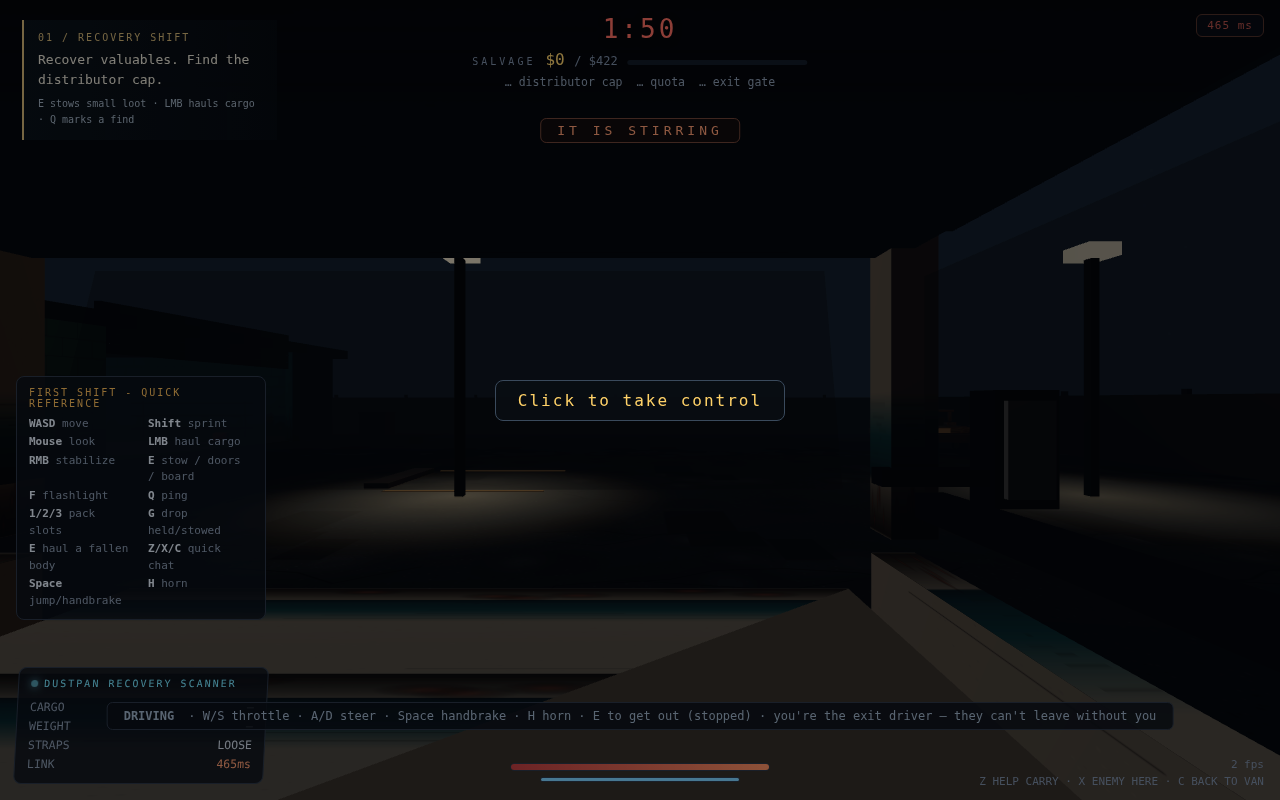
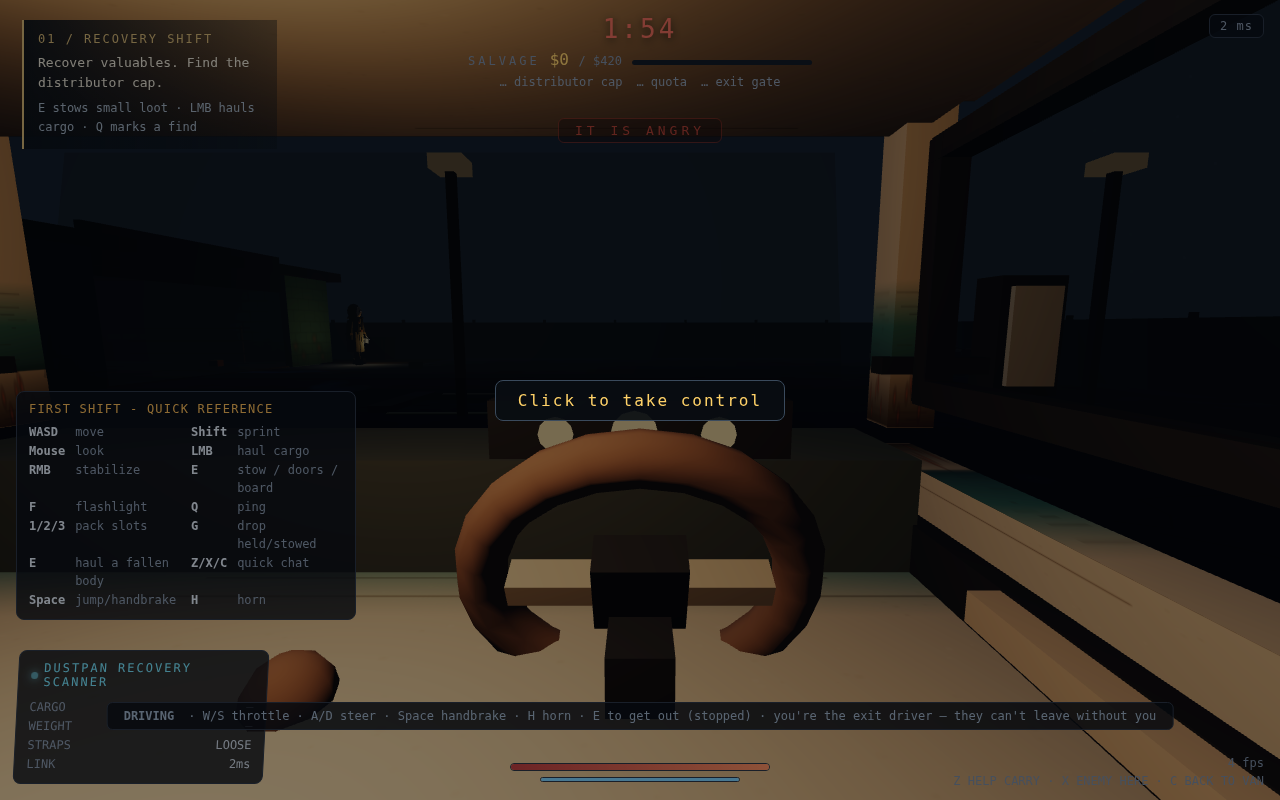
Fix menu reach and legibility: 12px text floor, laptop-height title, scrollable pause, one phone screen
- No text a player must read is under 12px (title sheet had 22 runs below
  it, the HUD 49, the briefing/pause/results sheets their form labels)
- Title sheet compacts below 760px tall so it fits 1280x630 and 1280x720;
  at 720px the Controls hint opens inside the screen
- Pause overlay scrolls; the pause sheet is 673px tall and was cut on
  short screens
- Briefing sheet sits above 'Click to take control', which painted over
  its site conditions
- Touch-only devices get one honest screen instead of the sign-in form
  overflowing under a notice
- Headgear is a row of drawn marks instead of a native select; swatches
  32px, buttons and inputs 44px; opaque sheet with an amber primary
- Lobby actions in one row; quick reference as key + label columns

diff --git a/apps/web/src/styles.css b/apps/web/src/styles.css
@@ -1436,19 +1436,6 @@ input:focus-visible {
   color: #8a99ac;
   line-height: 1.6;
 }
-.mobile-notice {
-  position: absolute;
-  left: 12px;
-  bottom: 12px;
-  right: 12px;
-  padding: 10px 14px;
-  background: rgba(30, 12, 8, 0.92);
-  border: 1px solid #6e4030;
-  border-radius: 8px;
-  color: #ffb39c;
-  font-size: 12.5px;
-  z-index: 40;
-}
 .pause-note {
   display: none;
 }
@@ -1961,4 +1948,150 @@ input:focus-visible {
     padding-left: 18px;
     padding-right: 18px;
   }
+}
+
+/* ---------- reach and legibility ----------
+   Nothing a player must read sits under 12px, every control is a real
+   target, and no sheet is taller than the screen it opens on. This block
+   comes last and overrides the sections above. */
+.field > span { font-size: 12px; letter-spacing: 1.4px; }
+.host-tag,
+.dc-tag,
+.ready,
+.roster .nick small { font-size: 12px; }
+
+/* title: one opaque sheet, the one action in amber */
+.title-panel { background: #0c151c; }
+.title-panel .btn { min-height: 44px; }
+.title-panel input { min-height: 44px; }
+.title-panel .btn.primary {
+  background: var(--amber);
+  border-color: #f0a83a;
+  color: #1a1206;
+  font-weight: 700;
+  box-shadow: 3px 4px 0 #4a3410;
+}
+.title-panel .btn.primary:hover:not(:disabled) {
+  background: #ffd27e;
+  transform: none;
+  box-shadow: 3px 4px 0 #4a3410;
+}
+.title-panel .btn.primary:active:not(:disabled) {
+  transform: translate(2px, 2px);
+  box-shadow: 1px 2px 0 #4a3410;
+}
+.title-controls,
+.title-controls .controls-hint { font-size: 12.5px; }
+.title-panel .form-head { font-size: 12px; }
+
+.swatch { width: 32px; height: 32px; }
+
+/* headgear: drawn marks instead of the platform's select menu */
+.headgear { display: flex; flex-wrap: wrap; gap: 6px; }
+.hat {
+  display: grid;
+  place-items: center;
+  width: 40px;
+  height: 40px;
+  border: 1px solid #384b55;
+  border-radius: 4px;
+  background: #101b23;
+  color: #9fb0bd;
+  cursor: pointer;
+  transition: border-color 0.14s ease, color 0.14s ease, background-color 0.14s ease;
+}
+.hat:hover { border-color: #d7b77b; color: #e6e0cf; }
+.hat.sel { border-color: var(--amber); background: #1d1a12; color: var(--amber); }
+.hat:focus-visible { outline: none; box-shadow: var(--focus); }
+
+/* 13-inch laptops (1280x630 / 1280x720): the whole sheet, Controls line
+   included, ends inside the first screen */
+@media (max-height: 760px) {
+  .title-panel { padding: 22px 28px 18px; }
+  .title-panel .game-title { font-size: 48px; margin-bottom: 12px; }
+  .title-panel .tagline { font-size: 13px; line-height: 1.5; margin-bottom: 14px; }
+  .title-panel .form-head { margin-bottom: 8px; }
+  .title-panel .field { margin: 10px 0; }
+  .title-panel .title-actions { padding-top: 14px; }
+  .title-panel .title-controls { margin-top: 10px; }
+}
+
+/* touch-only devices get one screen, not a form under a notice */
+.desktop-only {
+  position: absolute;
+  inset: 0;
+  display: grid;
+  place-items: center;
+  padding: 24px;
+  background: linear-gradient(180deg, #070a0ef2, #0b1016e6);
+}
+.desktop-only-card {
+  width: min(100%, 420px);
+  padding: 28px 24px;
+  background: #0c151c;
+  border: 1px solid #405058;
+  border-top: 3px solid var(--amber);
+  box-shadow: 16px 22px 66px #0007;
+}
+.desktop-only-card .game-title {
+  margin: 0 0 14px;
+  font: 800 56px/0.98 ui-monospace, "Cascadia Mono", Menlo, Consolas, monospace;
+  letter-spacing: -0.02em;
+  color: #f2ead9;
+  text-align: left;
+  text-shadow: none;
+}
+.desktop-only-card .game-title span { margin-left: 0.14em; color: var(--amber); }
+.desktop-only-card p { margin: 0 0 12px; font-size: 14px; line-height: 1.6; color: #c4ced6; }
+.desktop-only-meta { color: #8a99ac; font-size: 12px; }
+
+/* lobby: three actions in one row, the start button taking the middle */
+.lobby-actions {
+  display: grid;
+  grid-template-columns: auto minmax(0, 1fr) auto;
+  flex-wrap: nowrap;
+}
+.lobby-actions .btn { min-height: 44px; }
+
+/* the briefing sheet owns the screen: "Click to take control" waits under it */
+.briefing { z-index: 6; }
+
+/* the pause sheet scrolls inside its overlay instead of running off a short screen */
+.pause { align-items: safe center; overflow: auto; padding: 16px; }
+@media (max-height: 720px) {
+  .pause-panel { padding: 16px 22px; }
+}
+
+/* first-shift quick reference: key column + label column, one line per row */
+.controls-card { width: 340px; }
+.cc-head { font-size: 11px; letter-spacing: 1.5px; }
+.cc-grid { grid-template-columns: max-content 1fr max-content 1fr; gap: 1px 10px; font-size: 12px; }
+.cc-grid > span { display: contents; }
+.cc-grid b { white-space: nowrap; }
+.cc-head { font-size: 12px; letter-spacing: 1.2px; }
+
+/* in-game readouts and the receipt sheets' form labels join the 12px floor */
+.shift-directive > span,
+.shift-directive > small,
+.lat-chip,
+.q-label,
+.objectives span,
+.scanner-head,
+.scanner-row,
+.pk-key,
+.pk-empty,
+.corner-meta,
+.pause-panel .report-sec,
+.pause-panel .access-note,
+.briefing-sheet .report-motto,
+.briefing-sheet .briefing-meta,
+.briefing-sheet .report-sec,
+.briefing-sheet .cond-tag,
+.results-panel .report-motto,
+.results-panel .report-meta,
+.results-panel .report-sec,
+.results-panel .results-summary span,
+.results-panel .results-table th,
+.results-panel .results-table td {
+  font-size: 12px;
 }

diff --git a/apps/web/src/ui/CrewOptions.tsx b/apps/web/src/ui/CrewOptions.tsx
@@ -4,6 +4,36 @@ import { crewHex } from "../game/palette.js";
 export const HEADGEAR = ["Hi-vis cap", "Hard hat", "Beanie", "Headphones", "No headgear"] as const;
 const UNIFORMS = ["Amber", "Sky", "Mint", "Coral", "Lilac", "Lemon", "Seafoam", "Tangerine"] as const;
 
+// Headgear marks, drawn on the same 16-unit stroke grid as icons.tsx: a cap
+// with its brim, a hard hat with its ridge, a beanie with a fold, a headset
+// band with cups, and a crossed-out head for "nothing".
+const HEADGEAR_PATHS: React.ReactNode[] = [
+  <>
+    <path d="M3 10a5 5 0 0 1 10 0" />
+    <path d="M3 10h9a2 2 0 0 1 2 1.6" />
+    <path d="M8 5V3.5" />
+  </>,
+  <>
+    <path d="M3 11a5 5 0 0 1 10 0" />
+    <path d="M2 11h12v1.6H2z" />
+    <path d="M8 6v5" />
+  </>,
+  <>
+    <path d="M3 10a5 5 0 0 1 10 0" />
+    <path d="M3 10h10v2.6H3z" />
+    <path d="M8 2.5v1.2" />
+  </>,
+  <>
+    <path d="M3 11V9a5 5 0 0 1 10 0v2" />
+    <rect x="2" y="9.5" width="3" height="4" rx="1" />
+    <rect x="11" y="9.5" width="3" height="4" rx="1" />
+  </>,
+  <>
+    <circle cx="8" cy="8" r="5.2" />
+    <path d="M4.4 3.6l7.2 8.8" />
+  </>,
+];
+
 export function CrewOptions({ color, hat, taken = [], onChange }: {
   color: number;
   hat: number;
@@ -30,12 +60,28 @@ export function CrewOptions({ color, hat, taken = [], onChange }: {
           ))}
         </div>
       </div>
-      <label className="field crew-headgear">
+      <div className="field crew-headgear" role="radiogroup" aria-label="Headgear">
         <span>Headgear</span>
-        <select value={hat} onChange={(e) => onChange(color, Number(e.target.value))}>
-          {HEADGEAR.map((label, i) => <option key={label} value={i}>{label}</option>)}
-        </select>
-      </label>
+        <div className="headgear">
+          {HEADGEAR.map((label, i) => (
+            <button
+              key={label}
+              type="button"
+              role="radio"
+              aria-checked={hat === i}
+              aria-label={label}
+              title={label}
+              className={`hat ${hat === i ? "sel" : ""}`}
+              onClick={() => onChange(color, i)}
+            >
+              <svg width={20} height={20} viewBox="0 0 16 16" fill="none" stroke="currentColor"
+                strokeWidth={1.6} strokeLinecap="round" strokeLinejoin="round" aria-hidden="true">
+                {HEADGEAR_PATHS[i]}
+              </svg>
+            </button>
+          ))}
+        </div>
+      </div>
     </div>
   );
 }

diff --git a/apps/web/src/App.tsx b/apps/web/src/App.tsx
@@ -236,6 +236,21 @@ export function App(): React.ReactElement {
           <h2>LAST STOP can't start here</h2>
           <p>{fatal}</p>
         </div>
+      ) : mobile ? (
+        // Touch-only devices cannot play: one honest screen, not a sign-in
+        // form under a notice saying the form is useless.
+        <div className="desktop-only">
+          <div className="desktop-only-card">
+            <h1 className="game-title">LAST<span>STOP</span></h1>
+            <p>
+              The night shift runs on a laptop or PC with a keyboard and mouse.
+              {new URLSearchParams(location.search).get("code") || new URLSearchParams(location.search).get("room")
+                ? " Your crew is already waiting — open the invite link there."
+                : " Open this page on one and clock in."}
+            </p>
+            <p className="desktop-only-meta">1–4 players online · headphones recommended</p>
+          </div>
+        </div>
       ) : screen === "title" ? (
         <TitleScreen prefs={prefs} savePrefs={savePrefs} onEnter={enterRoom} />
       ) : (
@@ -266,11 +281,6 @@ export function App(): React.ReactElement {
           <div key={t.id} className={`toast ${t.kind}`}>{t.msg}</div>
         ))}
       </div>
-      {mobile && (
-        <div className="mobile-notice">
-          LAST STOP needs a desktop keyboard &amp; mouse. Come back on a laptop or PC — the night shift isn't touch-friendly.
-        </div>
-      )}
     </div>
   );
 }

diff --git a/docs/OVERHAUL.md b/docs/OVERHAUL.md
@@ -35,3 +35,17 @@ Animation timing follows the elapsed-time approach documented in the current [Th
 Automated coverage includes targeted server regressions and browser tests that walk to the van using the normal client/server input pipeline, open its doors, check that the bay is unobstructed, board as passenger, and board at the cab with cargo doors closed. Existing mission, multiplayer, carrying, reconnect and anti-cheat tests remain part of validation.
 
 Human playtesting should still cover four players under real network latency, audio balance, and performance on integrated graphics. These changes do not deploy either the frontend or the authoritative server.
+
+## Reach and legibility pass (2026-11-26)
+
+Menu and overlay work only; the renderer, the mission loop and the receipt voice are unchanged. The last block of `apps/web/src/styles.css` holds the rules.
+
+- Nothing a player must read is under 12px. The title sheet had 22 text runs below that, the in-game HUD 49, and the briefing, pause and results sheets their form labels.
+- On 1280x720 the title's Controls line opened past the bottom of the screen; at 1280x630 it was cut off entirely. The sheet now compacts below 760px tall so it ends at y=655 and y=618, and Controls opens inside a 720px screen. At 630px the opened hint still scrolls.
+- The pause sheet is 673px tall and had no scroll; its overlay now scrolls at any height.
+- "Click to take control" painted over the briefing sheet's site conditions. The briefing now sits above it.
+- Touch-only devices showed the sign-in form overflowing under a notice saying the form was useless. They get one screen instead, which names the room when an invite link is opened.
+- Headgear is a row of drawn marks (cap, hard hat, beanie, headphones, none) instead of the platform's select menu. Colour swatches grew from 26px to 32px, buttons and inputs to 44px.
+- The one primary action is amber on an opaque sheet. The lobby's three actions sit in a single row. The first-shift quick reference is a key column beside a label column, one line per row.
+
+Not verified: real phones and tablets (Chromium device emulation only), audio, and four players on a real network.
